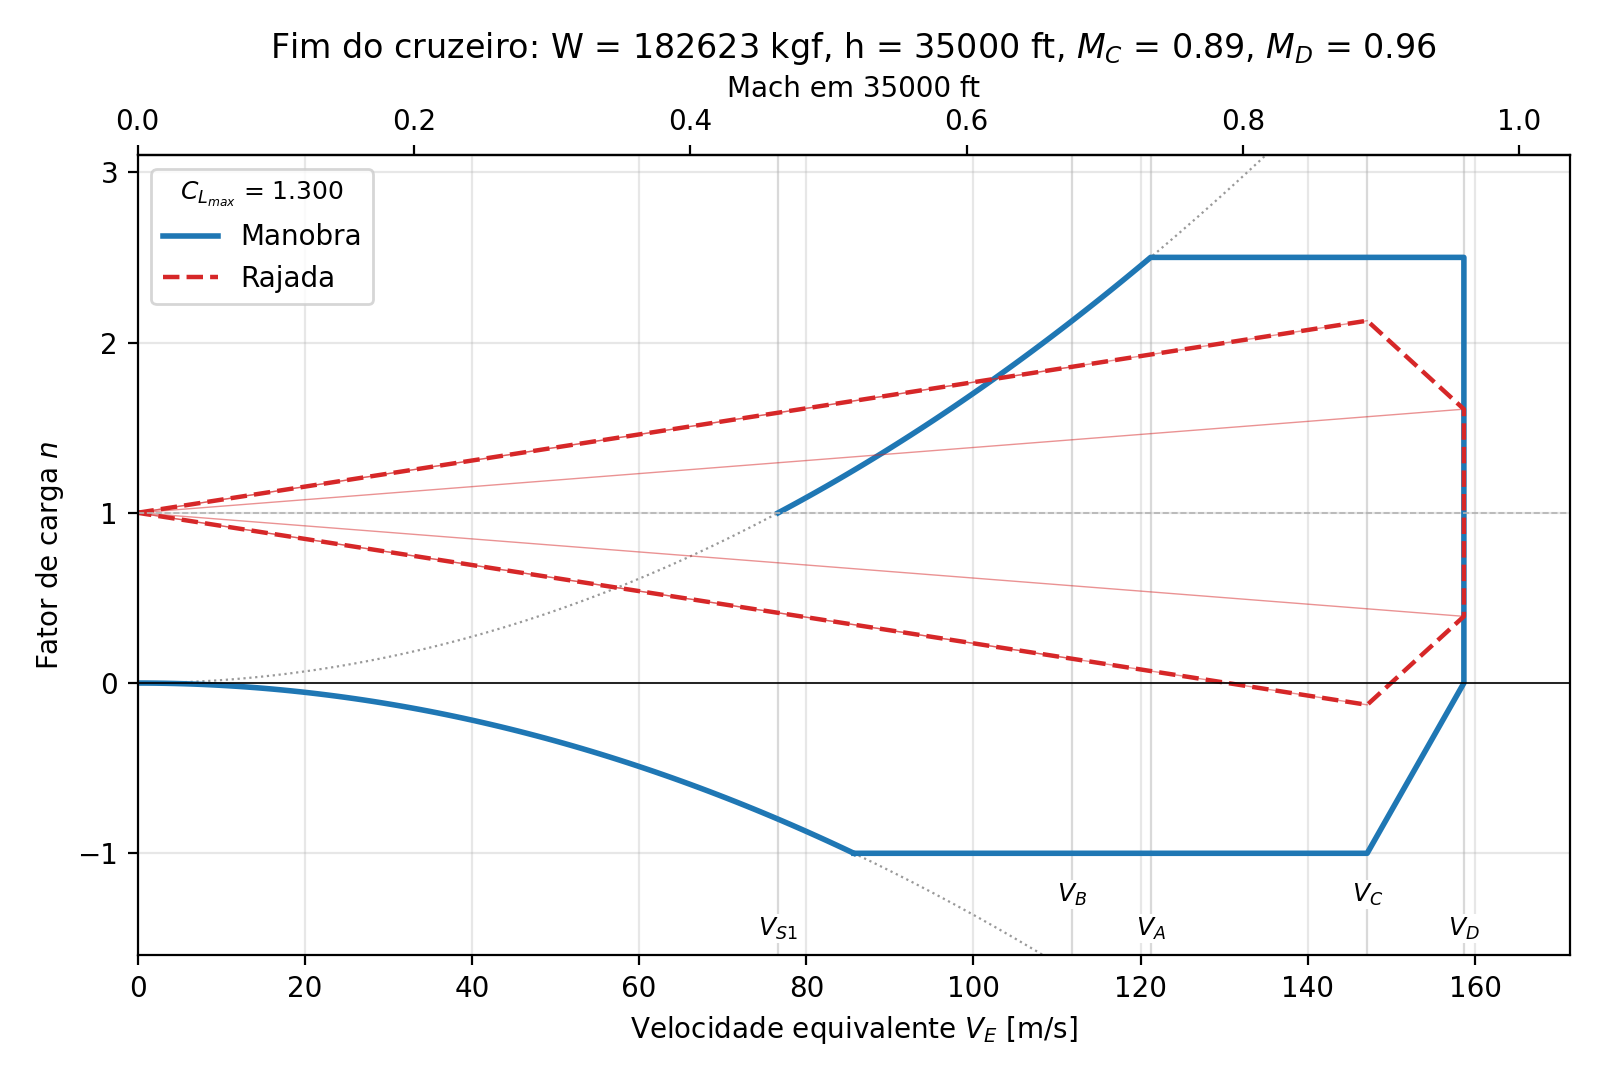
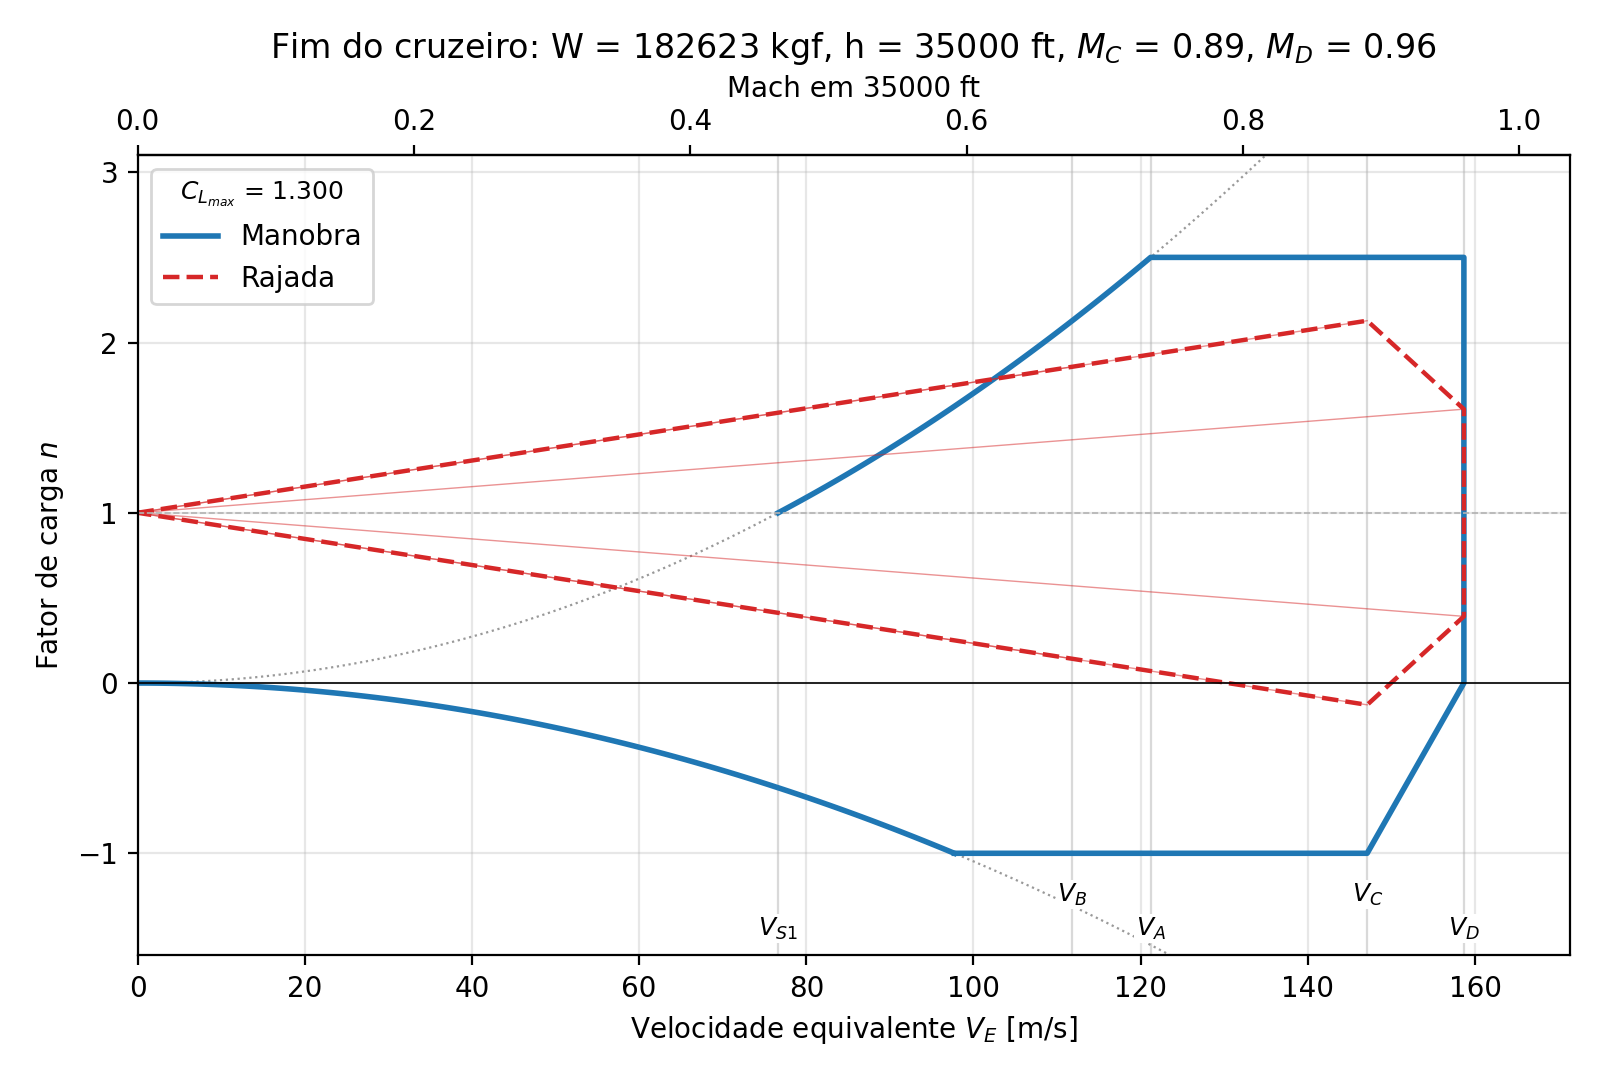
Usa C_Lmin = -0,8 fixo (definido pelo professor) no V-n do item 1 da Atividade 06.
Antes era hipotese (-0,8*C_Lmax = -1,043). So muda a linha de estol negativo
(V_S- de 102,3 para 116,9 m/s EAS no inicio e de 85,6 para 97,7 no fim);
figuras, CSV, JSON e tabelas LaTeX regerados, README revisado.

Changed region(s): [[0.1875, 0.6417, 0.5938, 0.7944], [0.1562, 0.6111, 0.1875, 0.6417]]

diff --git a/designTool/lab06_cargas/q1_envelope_voo.py b/designTool/lab06_cargas/q1_envelope_voo.py
@@ -65,9 +65,7 @@ KT = 0.514444                    # m/s por no
 #                   (0,854). Com ele a linha de estol do inicio do cruzeiro
 #                   nao alcanca n_max antes de V_D e o ponto A nao existe.
 CLMAX_FONTE = 'designTool'
-# CL_min = -RAZAO_CLMIN * CL_max (nao ha polar do perfil em alpha negativo;
-# o perfil do Lab 03 tem alpha_zl ~ -0,08 deg, quase sem arqueamento efetivo)
-RAZAO_CLMIN = 0.8
+CLMIN = -0.8                     # CL_min fixo (definido pelo professor)
 MMO = 0.89                       # M_C = MMO (definido pelo professor)
 DELTA_MD = 0.07                  # M_D = MMO + 0,07 (idem)
 
@@ -210,7 +208,7 @@ def calcula():
         'rho': pp['rho'], 'a': pp['a'], 'sigma': pp['rho']/RHO0,
         'M_cruzeiro': pp['M'], 'MC': MMO, 'MD': MMO + DELTA_MD,
         'CLmax': CLmax, 'CLmax_fonte': fonte,
-        'CLmin': -RAZAO_CLMIN*CLmax,
+        'CLmin': CLMIN,
         'CLa': CLa, 'CLa_deg': CLa*np.pi/180, 'CL_avl_alpha_0_2': CL_avl,
         'CLa_cruzeiro': CLa_cruz, 'CL_avl_alpha_0_2_cruzeiro': CL_avl_cruz,
         'it_deg': it, 'iw_deg': pp['iw_deg'], 'washout_deg': eps,
@@ -461,7 +459,7 @@ def variante_clmax(res, arg):
 
     arg: numero (ex.: 1.3) ou 'avl' (secao critica do Lab 04 para a asa do
     fwd.avl). C_L_alpha, pesos e Machs vem do JSON oficial; C_L_min segue
-    a mesma razao RAZAO_CLMIN. Saidas em resultados_q1/clmax_<tag>/.
+    o mesmo CLMIN. Saidas em resultados_q1/clmax_<tag>/.
     '''
     base = dict(res['base'])
     if arg.lower() == 'avl':
@@ -472,7 +470,7 @@ def variante_clmax(res, arg):
         base['CLmax'] = float(arg)
         base['CLmax_fonte'] = 'fixado manualmente'
         tag = ('%.2f' % base['CLmax']).replace('.', 'p')
-    base['CLmin'] = -RAZAO_CLMIN*base['CLmax']
+    base['CLmin'] = CLMIN
     W = {k: c['W_N'] for k, c in res['condicoes'].items()}
     var = {'base': base,
            'condicoes': {k: envelope(W[k], base) for k in ('inicio', 'fim')}}

diff --git a/designTool/lab06_cargas/tex_q1/tab_dados.tex b/designTool/lab06_cargas/tex_q1/tab_dados.tex
@@ -9,7 +9,7 @@ Peso no fim do cruzeiro & $W_{\mathrm{fim}}$ & $182\,623$ kgf \\
 Corda de referência (CMA) & $c_{\mathrm{ref}}$ & $6{,}904$ m \\
 Altitude de cruzeiro & $h$ & $35\,000$ ft ($10\,668$ m) \\
 Máximo coeficiente de sustentação & $C_{L_{\max}}$ & $1{,}304$ \\
-Mínimo coeficiente de sustentação & $C_{L_{\min}}$ & $-1{,}043$ \\
+Mínimo coeficiente de sustentação & $C_{L_{\min}}$ & $-0{,}800$ \\
 Inclinação da curva de sustentação ($M = 0{,}89$) & $C_{L_\alpha}$ & $7{,}059$ rad$^{-1}$ \\
 Inclinação da curva de sustentação ($M = 0{,}85$) & $C_{L_\alpha}$ & $6{,}754$ rad$^{-1}$ \\
 Mach de cruzeiro & $M_{\mathrm{cr}}$ & $0{,}85$ \\

diff --git a/designTool/lab06_cargas/tex_q1/tab_velocidades.tex b/designTool/lab06_cargas/tex_q1/tab_velocidades.tex
@@ -5,7 +5,7 @@
 Ponto & EAS [m/s] & TAS [m/s] & Mach & EAS [m/s] & TAS [m/s] & Mach \\
 \midrule
 $V_{S1}$ & $91{,}5$ & $164{,}2$ & $0{,}554$ & $76{,}5$ & $137{,}3$ & $0{,}463$ \\
-$V_{S}^{-}$ ($n=-1$) & $102{,}3$ & $183{,}6$ & $0{,}619$ & $85{,}6$ & $153{,}5$ & $0{,}518$ \\
+$V_{S}^{-}$ ($n=-1$) & $116{,}9$ & $209{,}7$ & $0{,}707$ & $97{,}7$ & $175{,}3$ & $0{,}591$ \\
 $V_A$ & $144{,}7$ & $259{,}7$ & $0{,}876$ & $121{,}0$ & $217{,}1$ & $0{,}732$ \\
 $V_B$ & $123{,}1$ & $220{,}9$ & $0{,}745$ & $111{,}7$ & $200{,}3$ & $0{,}676$ \\
 $V_C$ & $147{,}1$ & $264{,}0$ & $0{,}890$ & $147{,}1$ & $264{,}0$ & $0{,}890$ \\

diff --git a/designTool/lab06_cargas/README.md b/designTool/lab06_cargas/README.md
@@ -26,7 +26,7 @@ Script: `q1_envelope_voo.py`. Saídas em `resultados_q1/` e `tex_q1/`.
 | Corda de referência | c_ref | **6,904 m** | corda média aerodinâmica (Cref do AVL) |
 | Altitude de cruzeiro | h | **35 000 ft** (10 668 m) | `altitude_cruise` |
 | Máximo coeficiente de sustentação | C_Lmax | **1,304** | designTool: 0,9·cl_max·cosΛ (ver ponto em aberto 1) |
-| Mínimo coeficiente de sustentação | C_Lmin | **−1,043** | hipótese −0,8·C_Lmax (ver ponto em aberto 2) |
+| Mínimo coeficiente de sustentação | C_Lmin | **−0,80** | definido pelo professor (valor fixo, não depende de C_Lmax) |
 | Inclinação da curva de sustentação | C_Lα | **7,059 rad⁻¹** (0,1232 /°) em M 0,89, usada na rajada | AVL, avião completo, `fwd.avl` −7°, i_t = −1,143° |
 | ″ (registro) | C_Lα | 6,754 rad⁻¹ (0,1179 /°) em M 0,85 | idem, no Mach de cruzeiro |
 | Mach de cruzeiro | M_cr | **0,85** | `Mach_cruise` (ponto de projeto) |
@@ -44,7 +44,7 @@ os valores a 35 000 ft.
 | Ponto | Início EAS [m/s] | Início TAS [m/s] | Início Mach | Fim EAS [m/s] | Fim TAS [m/s] | Fim Mach |
 |---|---|---|---|---|---|---|
 | V_S1 (estol, n = 1) | 91,5 | 164,2 | 0,554 | 76,5 | 137,3 | 0,463 |
-| V_S⁻ (estol negativo em n = −1) | 102,3 | 183,6 | 0,619 | 85,6 | 153,5 | 0,518 |
+| V_S⁻ (estol negativo em n = −1) | 116,9 | 209,7 | 0,707 | 97,7 | 175,3 | 0,591 |
 | **V_A (manobra)** | **144,7** | **259,7** | **0,876** | **121,0** | **217,1** | **0,732** |
 | V_B (rajada máxima) | 123,1 | 220,9 | 0,745 | 111,7 | 200,3 | 0,676 |
 | V_C (MMO) | 147,1 | 264,0 | 0,890 | 147,1 | 264,0 | 0,890 |
@@ -72,6 +72,9 @@ os valores a 35 000 ft.
   147,1 m/s EAS, M 0,876 contra 0,890. A linha de estol cruza V_C em 2,58 g,
   só 3% acima de n_max.
 - Com o M_C = 0,85 usado antes, V_A ficava acima de V_C.
+- No lado negativo, a linha de estol (C_Lmin = −0,80) chega a n = −1 em
+  V_S⁻ = 116,9 m/s EAS no início e 97,7 m/s no fim, as duas abaixo de V_C.
+  O trecho em n = −1 vai de V_S⁻ até V_C.
 
 Figuras: `resultados_q1/vn_inicio.png` e `resultados_q1/vn_fim.png`.
 
@@ -87,8 +90,8 @@ Os mesmos diagramas foram refeitos com dois outros C_Lmax:
   trimado.
 
 Os dois são a base para decidir o ponto em aberto 1. Pesos, Machs, C_Lα e
-U_ref são os mesmos da versão oficial. Em cada variante, C_Lmin continua
-−0,8·C_Lmax.
+U_ref são os mesmos da versão oficial, e C_Lmin continua −0,80 em todas,
+então o lado negativo do diagrama não muda entre elas.
 
 As variantes saem do JSON oficial sem rodar AVL nem designTool
 (`--clmax 1.3` e `--clmax avl`). As saídas ficam em
@@ -96,9 +99,9 @@ As variantes saem do JSON oficial sem rodar AVL nem designTool
 
 | Grandeza [m/s EAS] | C_Lmax 1,304 (oficial), início | C_Lmax 1,304, fim | **C_Lmax 1,30**, início | **C_Lmax 1,30**, fim | **C_Lmax AVL 1,074**, início | **C_Lmax AVL 1,074**, fim |
 |---|---|---|---|---|---|---|
-| C_Lmin | −1,043 | −1,043 | −1,040 | −1,040 | −0,859 | −0,859 |
+| C_Lmin | −0,80 | −0,80 | −0,80 | −0,80 | −0,80 | −0,80 |
 | V_S1 | 91,5 | 76,5 | 91,7 | 76,7 | 100,9 | 84,3 |
-| V_S⁻ (n = −1) | 102,3 | 85,6 | 102,5 | 85,7 | 112,8 | 94,3 |
+| V_S⁻ (n = −1) | 116,9 | 97,7 | 116,9 | 97,7 | 116,9 | 97,7 |
 | **V_A** | **144,7** (M 0,876) | **121,0** (M 0,732) | **144,9** (M 0,877) | **121,2** (M 0,733) | **159,5 (M 0,965) > V_D** | **133,4** (M 0,807) |
 | V_B | 123,1 | 111,7 | 123,3 | 111,8 | 135,7 | 123,0 |
 | V_C / V_D | 147,1 / 158,7 | idem | idem | idem | idem | idem |
@@ -168,7 +171,7 @@ portanto os três números saem da mesma fonte.
 **c) Linhas de estol.**
 
 - Estol positivo: n = ρ₀V_E²S·C_Lmax/(2W).
-- Estol negativo: mesma expressão com C_Lmin.
+- Estol negativo: mesma expressão com |C_Lmin| = 0,80.
 - V_S1 = √(2W/(ρ₀S·C_Lmax)).
 - V_A = V_S1·√n_max, que é o cruzamento da linha de estol com n_max.
 
@@ -246,29 +249,18 @@ i_t = −1,143° e todos os controles travados, em dois Mach:
 - **Pergunta para o professor:** qual C_Lmax ele quer no V-n, o do designTool
   ou o da seção crítica do Lab 04?
 
-**2. C_Lmin é hipótese, não cálculo.**
-
-- Adotamos C_Lmin = −0,8·C_Lmax = −1,043 (`RAZAO_CLMIN`).
-- Não há polar do perfil do Lab 03 em α negativo, e o `xfoil.exe` do
-  repositório só roda no Windows.
-- O perfil tem α_zl ≈ −0,08°, quase sem arqueamento efetivo, então a razão
-  real pode ser mais próxima de 1.
-- **Não afeta os itens 2 e 3:** a linha de estol negativo só define o
-  contorno abaixo de ~100 m/s EAS. Para fechar de verdade, rode o XFOIL em
-  α negativo no Windows e aplique o método da seção crítica com cl_min.
-
-**3. C_Lmax constante com o Mach.** O mesmo C_Lmax (de baixa velocidade) foi
+**2. C_Lmax constante com o Mach.** O mesmo C_Lmax (de baixa velocidade) foi
 usado até M 0,96. Em transônico o C_Lmax real cai (buffet), então a linha de
 estol perto de V_C/V_D é otimista. Isso reforça o ponto 1.
 
-**4. O cruzeiro de alta velocidade do designTool passa do MMO.**
+**3. O cruzeiro de alta velocidade do designTool passa do MMO.**
 
 - O `Mach_maxcruise` do designTool é 0,90 a 30 000 ft, acima do MMO = 0,89
   definido em sala.
 - Vale comentar no relatório, ou baixar o `Mach_maxcruise` para 0,89.
 - Isso não muda o V-n.
 
-**5. Rajada: fórmula estática de Pratt × rajada discreta "1-cosseno".**
+**4. Rajada: fórmula estática de Pratt × rajada discreta "1-cosseno".**
 
 - A FAR 25.341(a) vigente pede rajada discreta com análise dinâmica. A
   fórmula de Pratt é a aproximação clássica para o diagrama V-n.
@@ -277,7 +269,7 @@ estol perto de V_C/V_D é otimista. Isso reforça o ponto 1.
 - Como a rajada não é crítica (1,81 g e 2,13 g contra 2,5 g), a escolha não
   muda a condição de projeto.
 
-**6. Qual C_Lα na rajada.**
+**5. Qual C_Lα na rajada.**
 
 - Usamos o do avião completo (asa + EH + fuselagem, AVL) em M_C = 0,89, e
   esse mesmo valor em V_B e V_D.
@@ -287,11 +279,11 @@ estol perto de V_C/V_D é otimista. Isso reforça o ponto 1.
 - Usando o C_Lα de M 0,85, o Δn cairia ~4% (a rajada em V_C no fim do
   cruzeiro iria de 2,13 g para ~2,08 g). A conclusão não muda.
 
-**7. c̄ em μ_g.** Usamos a corda média geométrica S/b = 6,013 m, que é o
+**6. c̄ em μ_g.** Usamos a corda média geométrica S/b = 6,013 m, que é o
 que a 25.341 define. Com a CMA (6,904 m), μ_g cai ~13%, K_g cai junto e o
 Δn diminui ~1%. Ou seja, a escolha atual é a mais conservadora das duas.
 
-**8. Avisos para o item 2.**
+**7. Avisos para o item 2.**
 
 - No início do cruzeiro, V_A está em **M 0,876**, acima do Mach de cruzeiro
   e quase no MMO. O AVL aplica Prandtl-Glauert nesse Mach, mas sem onda de
@@ -307,7 +299,7 @@ que a 25.341 define. Com a CMA (6,904 m), μ_g cai ~13%, K_g cai junto e o
 - **V_A não mudou com o novo M_C/M_D:** ele só depende de W, S, C_Lmax e
   n_max. Por isso as condições do item 2 são as mesmas.
 
-**9. CG.**
+**8. CG.**
 
 - O C_Lα e o i_t usados são os do **CG dianteiro** (`fwd.avl`).
 - No `aft.avl`, i_t = +0,330° com a asa torcida: a EH passa a sustentar.
@@ -322,6 +314,7 @@ que a 25.341 define. Com a CMA (6,904 m), μ_g cai ~13%, K_g cai junto e o
 
 | Mudança | O que mudou | O que não mudou |
 |---|---|---|
+| **C_Lmin definido pelo professor** (C_Lmin = −0,80 fixo) | Antes era hipótese, −0,8·C_Lmax = −1,043. Muda só a linha de estol negativo: V_S⁻ vai de 102,3 para 116,9 m/s EAS (início) e de 85,6 para 97,7 (fim). | Pesos, V_S1, V_A, V_B, V_C, V_D, toda a rajada e o contorno positivo |
 | **M_C/M_D definidos em sala** (M_C = MMO = 0,89; M_D = 0,96) | Antes: M_C = M_cr = 0,85 e M_D = 0,90. Mudam V_C (140,5 → 147,1 m/s EAS), V_D (148,8 → 158,7), V_B, todo o envelope de rajada e o C_Lα da rajada (6,754 → 7,059 rad⁻¹). | Pesos, V_S1 e V_A |
 | **`b8f7de4` (22/10)**: `fwd.avl`/`aft.avl` viraram a asa com washout −7° e os `*_washout.avl` foram removidos | A primeira rodada foi com a asa reta (C_Lα = 6,735 rad⁻¹ em M 0,85, i_t = −3,429°). Diferença < 0,3% em C_Lα. | — |
 
@@ -357,5 +350,5 @@ pela plataforma: `AVL_package/avl337.exe` no Windows e `AVL_package/avl`
 | `tex_q1/tab_dados.tex` | tabela 1.1 em LaTeX (para o relatório) |
 | `tex_q1/tab_velocidades.tex` | tabela 1.2 em LaTeX |
 
-Parâmetros no topo do script: `CLMAX_FONTE`, `RAZAO_CLMIN`, `MMO`,
+Parâmetros no topo do script: `CLMAX_FONTE`, `CLMIN`, `MMO`,
 `DELTA_MD`.
